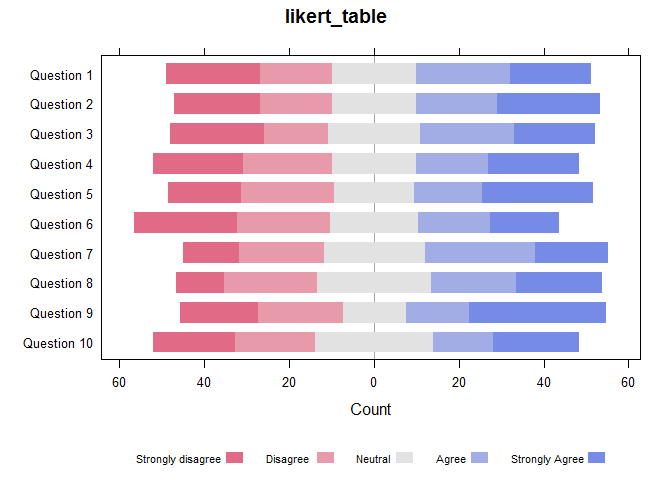
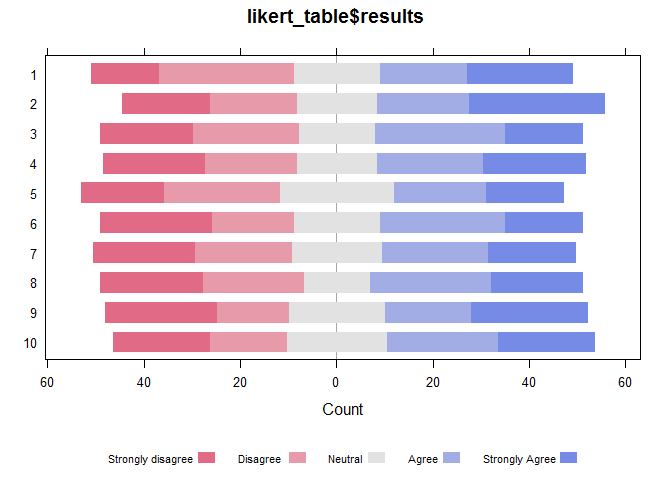
update readme

diff --git a/README.md b/README.md
@@ -8,25 +8,29 @@ This pakage lets you create shiny widgets for likert scal data with simple synta
 ```r
 library(shinyLikert)
 td = createTestData( 100, 10 )
-likert_table = shinyLikert:::create_table( td$likert_data )
-HH::likert( x = likert_table )
+likert_table = likert::likert( td$likert_data )
+HH::likert( x = likert_table$results )
 ```
 
 ![](README_files/figure-html/unnamed-chunk-1-1.png)
 
-The widgets include interactive inputs to alter the plot. Currently supported interactive inputs are
+The widgets include interactive inputs to alter the plot. An interactive output might look like this
 
-* Height
-* Factorlevels for filtering the data
 
-The examples need a shiny server to run, so they are hosted on [my website] Alternatively you can install the package with
+```r
+fluidPage( renderShinyLikert( 
+  testData2,
+  dropdown = "country" )
+)
+```
+
+![alt text](README_files/figure-html/plit_plot.PNG)
+
+Note that this is just a screenshot of the widget produced. To see dynamic examples, you can either download the package and run the files in the examples directory yourself or visit [my website]. The package can be installed from an R terminal with
 
 
 ```r
 devtools::install_github("gregorDeCillia/shinyLikert")
 ```
-
-and run the examples locally on your computer.
-
 
 [my website]:  http://gregor-de-cillia.xyz/shiny/shinyLikert/examples/
